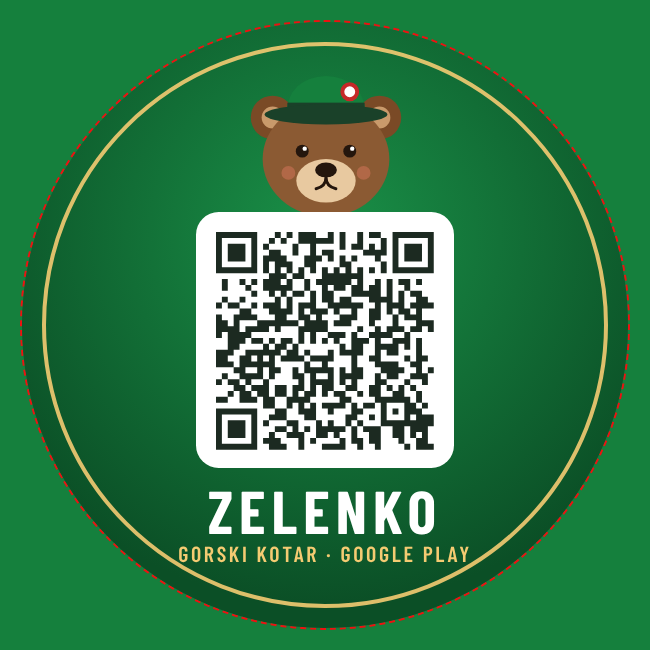
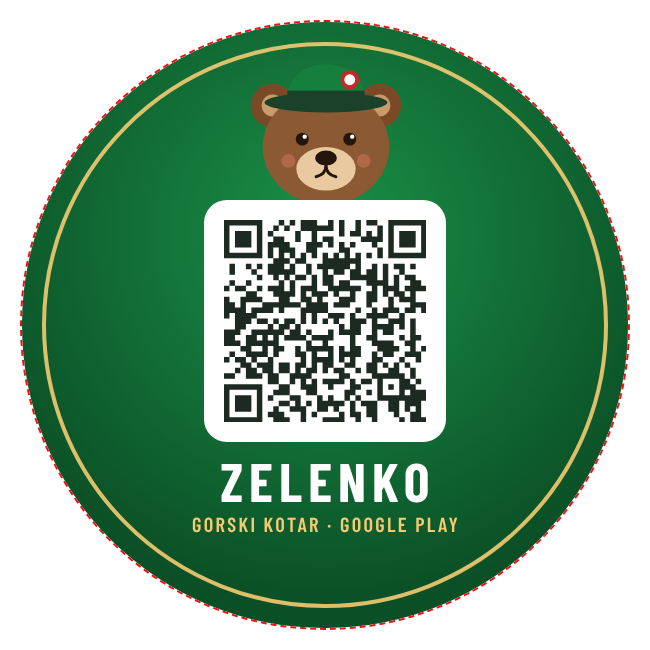
Naljepnica: bijela pozadina oko kruga, tekst unutar zlatnog prstena
Claude-Session: https://claude.ai/code/session_0149vsfYP5QN7vvWcap674f8

diff --git a/play/tisak/naljepnica-80mm-rez.html b/play/tisak/naljepnica-80mm-rez.html
@@ -5,14 +5,14 @@
 *{box-sizing:border-box;margin:0}
 html,body{-webkit-print-color-adjust:exact;print-color-adjust:exact}
 @page{size:86mm 86mm;margin:0}
-body{width:86mm;height:86mm;background:#15803D;position:relative;overflow:hidden;font-family:B}
+body{width:86mm;height:86mm;background:#fff;position:relative;overflow:hidden;font-family:B}
 .k{position:absolute;left:3mm;top:3mm;width:80mm;height:80mm;border-radius:50%;background:radial-gradient(circle at 50% 35%,#1A9148,#0B4F26 75%)}
 .prsten{position:absolute;left:5.5mm;top:5.5mm;width:75mm;height:75mm;border-radius:50%;border:.7mm solid #F4CB72;opacity:.9}
-.medo{position:absolute;left:50%;transform:translateX(-50%);top:9mm}
-.qr{position:absolute;left:26mm;top:28mm;width:34mm;height:34mm;background:#fff;border-radius:3mm;padding:2.6mm}
+.medo{position:absolute;left:50%;transform:translateX(-50%);top:7.5mm}
+.qr{position:absolute;left:27mm;top:26.5mm;width:32mm;height:32mm;background:#fff;border-radius:3mm;padding:2.6mm}
 .qr svg{width:100%;height:100%;display:block}
-.ime{position:absolute;left:0;right:0;top:63.5mm;text-align:center;color:#fff;font:700 8mm/1 BC;letter-spacing:.8mm}
-.pod{position:absolute;left:0;right:0;top:72mm;text-align:center;color:#F4CB72;font:600 2.9mm/1 BC;letter-spacing:.35mm}
+.ime{position:absolute;left:0;right:0;top:60mm;text-align:center;color:#fff;font:700 7.2mm/1 BC;letter-spacing:.8mm;padding-left:.8mm}
+.pod{position:absolute;left:0;right:0;top:68mm;text-align:center;color:#F4CB72;font:600 2.7mm/1 BC;letter-spacing:.3mm;padding-left:.3mm}
 .rez{position:absolute;left:3mm;top:3mm;width:80mm;height:80mm;border-radius:50%;outline:.3mm dashed #E11;outline-offset:0}
 </style></head><body><div class="k"></div><div class="prsten"></div>
 <svg class="medo" width="22mm" height="22mm" viewBox="36 20 168 168"><circle cx="66" cy="70" r="22" fill="#7A4A26"/><circle cx="66" cy="70" r="11" fill="#C99A6B"/><circle cx="174" cy="70" r="22" fill="#7A4A26"/><circle cx="174" cy="70" r="11" fill="#C99A6B"/><ellipse cx="120" cy="112" rx="64" ry="58" fill="#8B5A33"/><ellipse cx="120" cy="134" rx="30" ry="22" fill="#E8C9A0"/><ellipse cx="120" cy="123" rx="11" ry="7.5" fill="#24160D"/><path d="M120 130 Q120 140 110 142 M120 130 Q120 140 130 142" stroke="#24160D" stroke-width="3" fill="none" stroke-linecap="round"/><circle cx="96" cy="104" r="6.5" fill="#24160D"/><circle cx="98.5" cy="101.5" r="2.2" fill="#fff"/><circle cx="144" cy="104" r="6.5" fill="#24160D"/><circle cx="146.5" cy="101.5" r="2.2" fill="#fff"/><circle cx="82" cy="126" r="7" fill="#E07A5F" opacity=".45"/><circle cx="158" cy="126" r="7" fill="#E07A5F" opacity=".45"/><path d="M80 66 Q82 30 120 28 Q158 30 160 66 Z" fill="#15803D"/><rect x="81" y="55" width="78" height="10" fill="#1A4129"/><ellipse cx="120" cy="67" rx="62" ry="10" fill="#1A4129"/><circle cx="144" cy="44" r="7.5" fill="#fff" stroke="#C62828" stroke-width="4"/></svg>

diff --git a/play/tisak/naljepnica-80mm.html b/play/tisak/naljepnica-80mm.html
@@ -5,14 +5,14 @@
 *{box-sizing:border-box;margin:0}
 html,body{-webkit-print-color-adjust:exact;print-color-adjust:exact}
 @page{size:86mm 86mm;margin:0}
-body{width:86mm;height:86mm;background:#15803D;position:relative;overflow:hidden;font-family:B}
+body{width:86mm;height:86mm;background:#fff;position:relative;overflow:hidden;font-family:B}
 .k{position:absolute;left:3mm;top:3mm;width:80mm;height:80mm;border-radius:50%;background:radial-gradient(circle at 50% 35%,#1A9148,#0B4F26 75%)}
 .prsten{position:absolute;left:5.5mm;top:5.5mm;width:75mm;height:75mm;border-radius:50%;border:.7mm solid #F4CB72;opacity:.9}
-.medo{position:absolute;left:50%;transform:translateX(-50%);top:9mm}
-.qr{position:absolute;left:26mm;top:28mm;width:34mm;height:34mm;background:#fff;border-radius:3mm;padding:2.6mm}
+.medo{position:absolute;left:50%;transform:translateX(-50%);top:7.5mm}
+.qr{position:absolute;left:27mm;top:26.5mm;width:32mm;height:32mm;background:#fff;border-radius:3mm;padding:2.6mm}
 .qr svg{width:100%;height:100%;display:block}
-.ime{position:absolute;left:0;right:0;top:63.5mm;text-align:center;color:#fff;font:700 8mm/1 BC;letter-spacing:.8mm}
-.pod{position:absolute;left:0;right:0;top:72mm;text-align:center;color:#F4CB72;font:600 2.9mm/1 BC;letter-spacing:.35mm}
+.ime{position:absolute;left:0;right:0;top:60mm;text-align:center;color:#fff;font:700 7.2mm/1 BC;letter-spacing:.8mm;padding-left:.8mm}
+.pod{position:absolute;left:0;right:0;top:68mm;text-align:center;color:#F4CB72;font:600 2.7mm/1 BC;letter-spacing:.3mm;padding-left:.3mm}
 .rez{position:absolute;left:3mm;top:3mm;width:80mm;height:80mm;border-radius:50%;outline:.3mm dashed #E11;outline-offset:0}
 </style></head><body><div class="k"></div><div class="prsten"></div>
 <svg class="medo" width="22mm" height="22mm" viewBox="36 20 168 168"><circle cx="66" cy="70" r="22" fill="#7A4A26"/><circle cx="66" cy="70" r="11" fill="#C99A6B"/><circle cx="174" cy="70" r="22" fill="#7A4A26"/><circle cx="174" cy="70" r="11" fill="#C99A6B"/><ellipse cx="120" cy="112" rx="64" ry="58" fill="#8B5A33"/><ellipse cx="120" cy="134" rx="30" ry="22" fill="#E8C9A0"/><ellipse cx="120" cy="123" rx="11" ry="7.5" fill="#24160D"/><path d="M120 130 Q120 140 110 142 M120 130 Q120 140 130 142" stroke="#24160D" stroke-width="3" fill="none" stroke-linecap="round"/><circle cx="96" cy="104" r="6.5" fill="#24160D"/><circle cx="98.5" cy="101.5" r="2.2" fill="#fff"/><circle cx="144" cy="104" r="6.5" fill="#24160D"/><circle cx="146.5" cy="101.5" r="2.2" fill="#fff"/><circle cx="82" cy="126" r="7" fill="#E07A5F" opacity=".45"/><circle cx="158" cy="126" r="7" fill="#E07A5F" opacity=".45"/><path d="M80 66 Q82 30 120 28 Q158 30 160 66 Z" fill="#15803D"/><rect x="81" y="55" width="78" height="10" fill="#1A4129"/><ellipse cx="120" cy="67" rx="62" ry="10" fill="#1A4129"/><circle cx="144" cy="44" r="7.5" fill="#fff" stroke="#C62828" stroke-width="4"/></svg>
